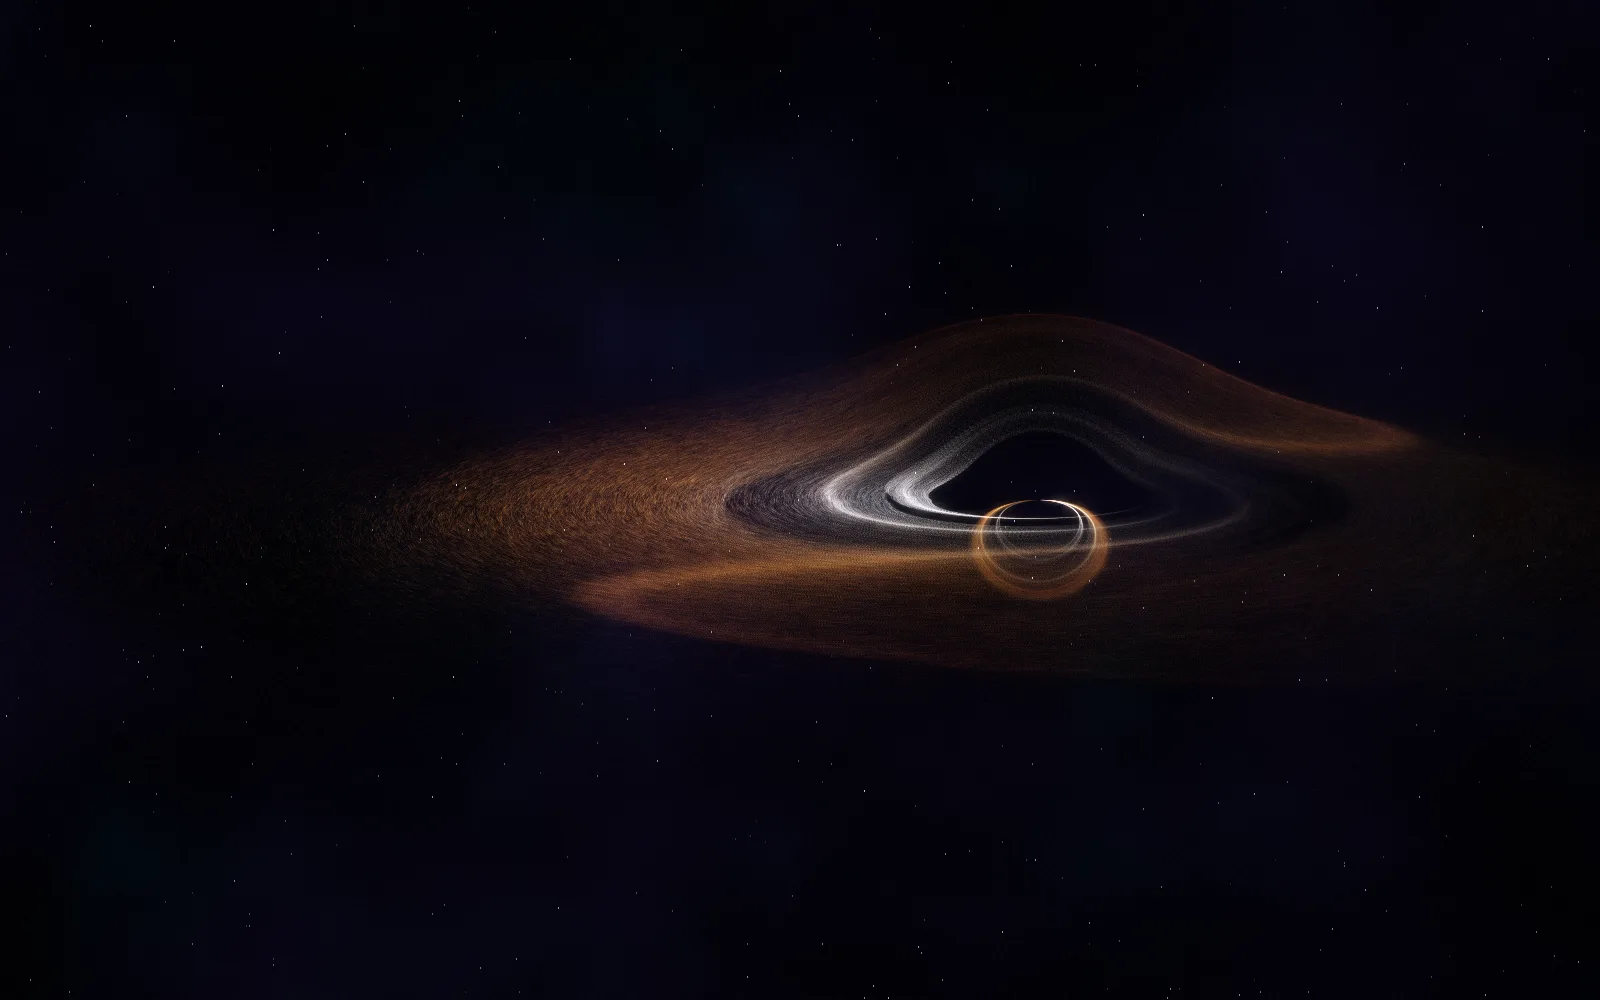
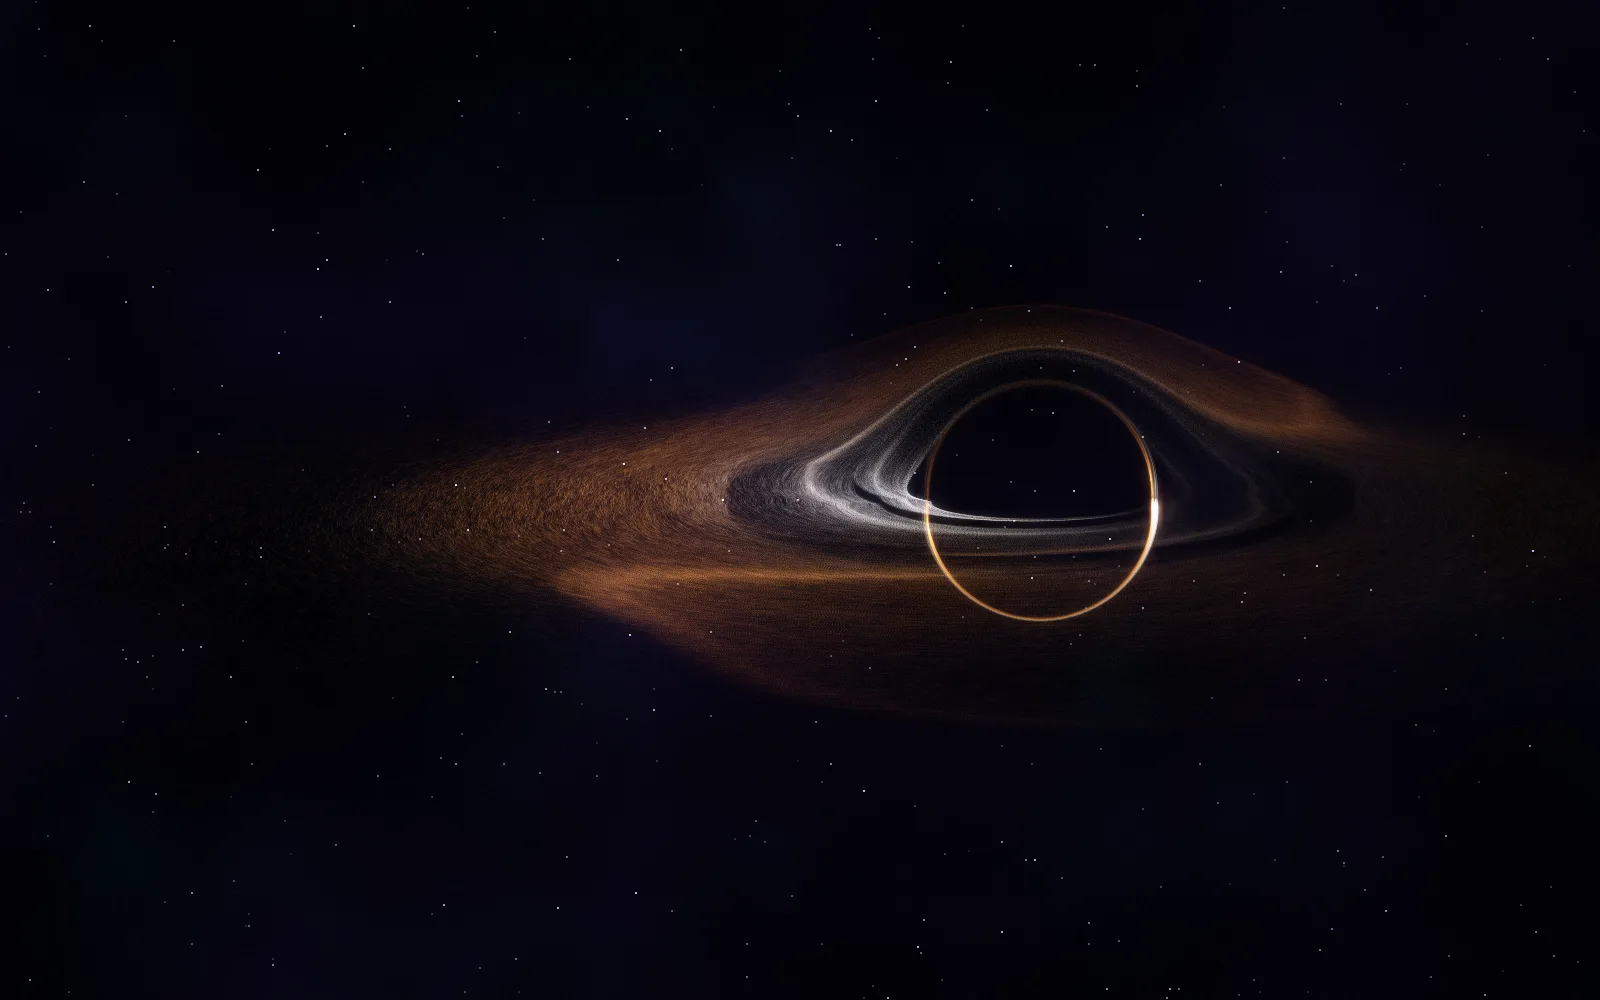
fix: the black hole's second image is a thin ring on the shadow's edge
The second lensed image used the lens strength that fades to zero beside
the hole, so the copies gathered near the centre and made a small ring
below it. It now uses the full Einstein radius and sits in a thin band just
outside the shadow on the opposite side, dimmed by distance instead. The
near side gets a faint second image too, which closes the ring over the
top. The first image ramps in over 0.4 instead of 1.2 behind the hole, so
the far side lifts into a round arc and the shadow is round. The no-WebGL
still for the black hole is re-rendered.

Changed region(s): [[0.25, 0.341, 0.875, 0.682]]

diff --git a/assets/js/engine/shaders.js b/assets/js/engine/shaders.js
@@ -118,10 +118,12 @@ vec3 colF(int f,vec3 p,vec3 v,vec4 h){
 }
 void main(){ivec2 id=ivec2(gl_VertexID%uW,gl_VertexID/uW);vec4 P=texelFetch(uP,id,0),V=texelFetch(uV,id,0);vec3 p=P.xyz,v=V.xyz;vec4 h=H4(id);
   vec3 q=uR*p;float z=q.z+uDist;gl_PointSize=uPt;vC=vec3(0.);
-  if(z<.2||(uImg==1&&(uLens<.01||q.z<=0.))){gl_Position=vec4(2.,2.,2.,1.);return;}
+  if(z<.2||(uImg==1&&uLens<.01)){gl_Position=vec4(2.,2.,2.,1.);return;}
   vec2 s=q.xy/z*uFoc;float amp=1.;
-  if(uLens>.01&&q.z>0.){float b=length(s)+1e-5;float th=uThE*uLens*sqrt(clamp(q.z/1.2,0.,1.));float root=sqrt(b*b+4.*th*th);
-    if(uImg==0){s*=((b+root)*.5)/b;}else{float bp=(root-b)*.5;s*=-bp/b;amp=.45*clamp(bp/max(b,.02),0.,1.);}}
+  // first image: the far side is pushed outward, over the shadow; second image: a thin ring on the shadow's edge, on the opposite side
+  if(uLens>.01){float b=length(s)+1e-5;float TH=uThE*uLens;
+    if(uImg==0){if(q.z>0.){float th=TH*sqrt(clamp(q.z/.4,0.,1.));s*=((b+sqrt(b*b+4.*th*th))*.5)/b;}}
+    else{float u=(sqrt(b*b+4.*TH*TH)-b)*.5/TH;s*=-TH*(.84+.1*u)/b;amp=.45*u*sqrt(clamp(abs(q.z)/.4,0.,1.))*(q.z>0.?1.:.15);}}
   vec3 c=mix(colF(uF0,p,v,h),colF(uF1,p,v,h),uMix);
   float dep=smoothstep(uDist+3.,uDist-2.,z);
   bool bm=(uF1==3&&h.x>=.08&&h.x<.2);float db=uT-P.w;float fin=(P.w<0.||db<0.)?1.:smoothstep(0.,bm?.06:.5,db);
